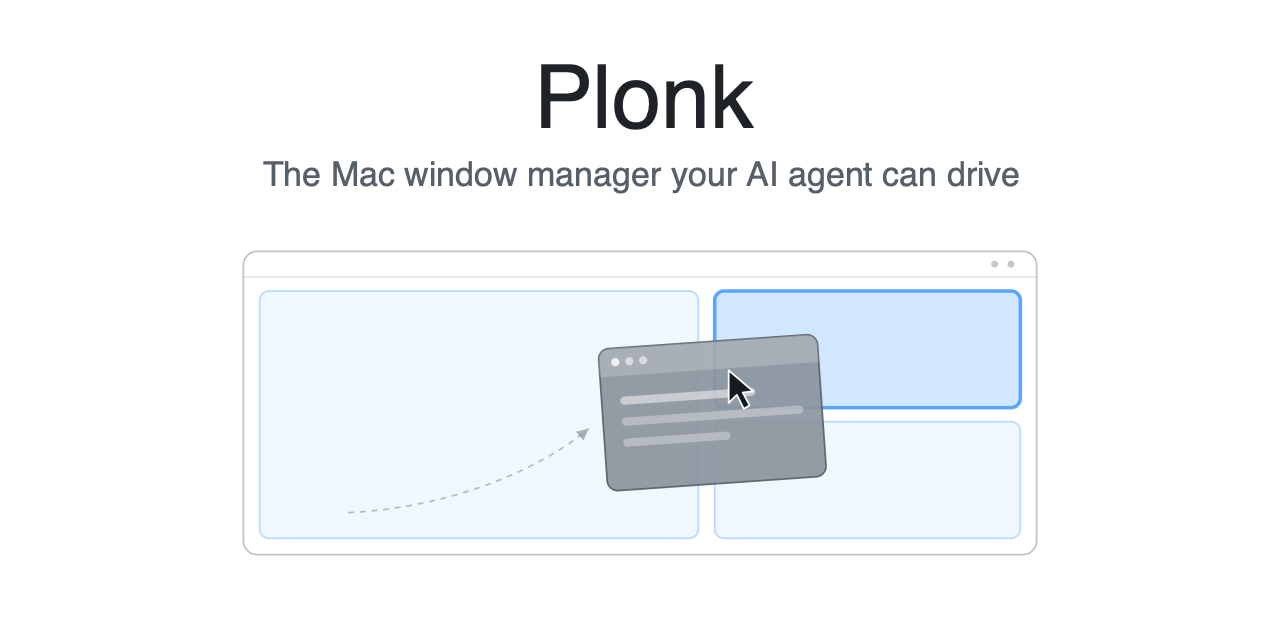
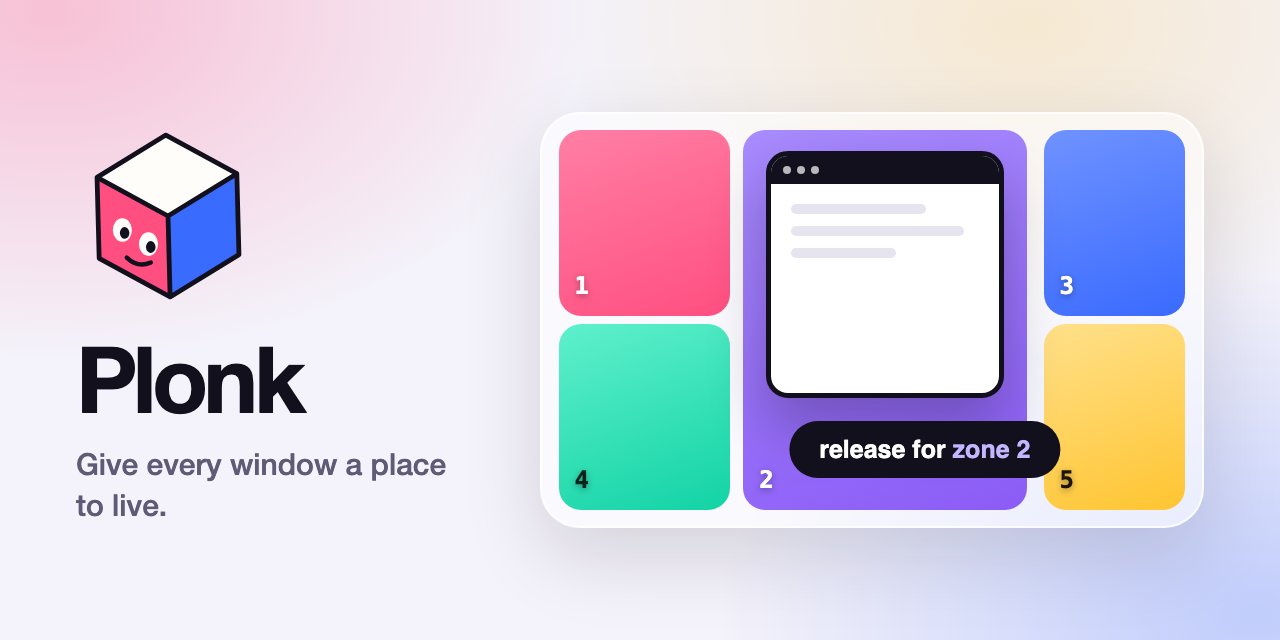
docs: point the site at the mockups, and redraw the social card
Not my work: this is the design pass that came with the brief, committed
as it stood in the tree.

The site showed two screenshots that predated this design; they are gone
and docs/index.html shows the Zones window and the menu bar panel from
docs/design/shots/ instead, so nothing on the page contradicts the
palette any more. social-preview.png is redrawn from design/social.html,
one Chrome frame with the flags that make it reproducible.

What this does not do is show the real app. The mockups are standing in
for captures that have to come off the built binary now that the screens
exist, and both design/README.md and HANDOFF.md say so in as many words.

diff --git a/docs/design/social.html b/docs/design/social.html
@@ -1,0 +1,106 @@
+<!doctype html>
+<meta charset="utf-8">
+<style>
+/* ============================================================
+   docs/social-preview.png — the card GitHub, Slack and every
+   chat window draw when someone pastes a link.
+   640x320 at 2x is 1280x640, which is what GitHub asks for and
+   what the file it replaces already was. Nothing here animates:
+   this is the banner's rest pose, so the two assets read as the
+   same drawing rather than two attempts at one.
+   ============================================================ */
+*{box-sizing:border-box;margin:0;padding:0}
+html,body{width:640px;height:320px;overflow:hidden}
+body{
+  background:
+    radial-gradient(70% 90% at 4% 2%,rgba(255,79,129,.30),transparent 60%),
+    radial-gradient(70% 90% at 98% 96%,rgba(58,107,255,.28),transparent 60%),
+    radial-gradient(60% 80% at 80% 4%,rgba(255,197,49,.20),transparent 60%),
+    #f4f2fa;
+  font-family:-apple-system,"SF Pro Display","Helvetica Neue",Helvetica,Arial,sans-serif;
+  position:relative
+}
+
+/* ---------- left: the cube and the wordmark ---------- */
+.left{position:absolute;left:38px;top:56px;width:210px}
+.cube{width:92px;height:104px;display:block;transform:rotate(-1.5deg)}
+.word{font-size:46px;font-weight:900;letter-spacing:-.05em;color:#12101c;margin-top:6px;line-height:1}
+.tag{font-size:15px;line-height:1.35;color:#5f5a75;margin-top:10px;font-weight:500;max-width:200px}
+
+/* ---------- right: the screen ---------- */
+/* One zone short of the six-hue ceiling, and the same five the site
+   calls Priority — a reader who has seen one has seen the other. */
+.screen{
+  position:absolute;left:270px;top:56px;width:332px;height:208px;
+  border-radius:20px;background:rgba(255,255,255,.55);
+  border:1px solid rgba(255,255,255,.8);
+  box-shadow:0 14px 40px rgba(18,16,28,.14);
+  padding:9px
+}
+.z{
+  position:absolute;border-radius:11px;display:flex;align-items:flex-end;padding:8px;
+  font:600 12px ui-monospace,"SF Mono",Menlo,monospace;color:#fff;
+  text-shadow:0 1px 3px rgba(18,16,28,.35)
+}
+.z1{background:linear-gradient(160deg,#ff7fa4,#ff4f81);left:2.5%;top:4%;width:26%;height:45%}
+.z2{background:linear-gradient(160deg,#a98cff,#8b5cf6);left:30.5%;top:4%;width:43%;height:92%}
+.z3{background:linear-gradient(160deg,#6f92ff,#3a6bff);left:76%;top:4%;width:21.5%;height:45%}
+.z4{background:linear-gradient(160deg,#5ff0cd,#12d3a4);left:2.5%;top:51%;width:26%;height:45%;color:#04241b}
+.z5{background:linear-gradient(160deg,#ffe08a,#ffc531);left:76%;top:51%;width:21.5%;height:45%;color:#1c1400}
+
+/* The window lands slightly inside zone 2 rather than over it, so the
+   gradient stays visible as a frame — which is what the gap setting
+   really does. Same outline as the cube: the two hard-edged things.
+   The toast is pushed off centre for one reason: centred, it sat on
+   zone 2's own digit, and the whole point is that the number and the
+   colour agree. */
+.win{
+  position:absolute;left:34%;top:9%;width:36%;height:60%;
+  border-radius:11px;background:#fff;border:2.5px solid #12101c;
+  box-shadow:0 14px 28px rgba(18,16,28,.28);overflow:hidden
+}
+.win .bar{height:14px;background:#12101c;display:flex;gap:3px;align-items:center;padding:0 6px}
+.win .bar i{width:4px;height:4px;border-radius:50%;background:rgba(255,255,255,.7);display:block}
+.win .body{padding:10px;display:flex;flex-direction:column;gap:6px}
+.win .body u{display:block;height:5px;border-radius:3px;background:#e6e4ef;text-decoration:none}
+.win .body u:nth-child(1){width:72%}
+.win .body u:nth-child(2){width:92%}
+.win .body u:nth-child(3){width:56%}
+
+.toast{
+  position:absolute;left:58%;bottom:24px;transform:translateX(-50%);
+  background:#12101c;color:#fff;border-radius:999px;padding:7px 15px;
+  font:600 12.5px -apple-system,"SF Pro Text",Helvetica,Arial,sans-serif;white-space:nowrap
+}
+.toast b{color:#c4b5ff}
+</style>
+
+<div class="left">
+  <svg class="cube" viewBox="0 0 100 112">
+    <polygon fill="#fffdf9" points="12,34 50,12 88,34 50,56"/>
+    <polygon fill="#ff4f81" points="12,34 50,56 50,100 12,78"/>
+    <polygon fill="#3a6bff" points="88,34 50,56 50,100 88,78"/>
+    <ellipse cx="25" cy="63" rx="5.2" ry="6.4" fill="#fffdf9"/>
+    <ellipse cx="26.2" cy="64.6" rx="2.6" ry="3.2" fill="#12101c"/>
+    <ellipse cx="39" cy="71" rx="5.2" ry="6.4" fill="#fffdf9"/>
+    <ellipse cx="40.2" cy="72.6" rx="2.6" ry="3.2" fill="#12101c"/>
+    <path d="M27,78 Q33,84 40,81" stroke="#12101c" stroke-width="2.4" fill="none" stroke-linecap="round"/>
+    <path fill="none" stroke="#12101c" stroke-width="2.6" stroke-linejoin="round"
+          d="M12,34 L50,12 L88,34 L88,78 L50,100 L12,78 Z M12,34 L50,56 L88,34 M50,56 L50,100"/>
+  </svg>
+  <div class="word">Plonk</div>
+  <div class="tag">Give every window a place to live.</div>
+</div>
+
+<div class="screen">
+  <div class="z z1">1</div>
+  <div class="z z2">2</div>
+  <div class="z z3">3</div>
+  <div class="z z4">4</div>
+  <div class="z z5">5</div>
+  <div class="win">
+    <div class="bar"><i></i><i></i><i></i></div>
+    <div class="body"><u></u><u></u><u></u></div>
+  </div>
+  <div class="toast">release for <b>zone 2</b></div>
+</div>

diff --git a/docs/index.html b/docs/index.html
@@ -253,6 +253,11 @@ h1,h2,h3{text-wrap:balance}
 figure.shot{margin:24px 0 0}
 figure.shot img{border-radius:18px;border:1px solid var(--line);display:block;width:100%}
 figure.shot figcaption{margin-top:11px;font-size:13.5px;color:var(--dimmer);line-height:1.45}
+/* A window and a desktop are not the same shape, so side by side their
+   captions start at different heights. Pushing them to the bottom of the
+   cell lines them up without cropping either picture. */
+.split figure.shot{display:flex;flex-direction:column;height:100%}
+.split figure.shot figcaption{margin-top:auto;padding-top:11px}
 .split{display:grid;gap:16px}
 /* Grid and flex children default to min-width:auto, so a <pre> refuses to
    shrink below its longest line and pushes the page sideways, overflow-x
@@ -549,14 +554,14 @@ pre .c{color:#9c96b8}
     <p class="lead">Anything the app can do has a name you can type. The theme is yours to pick, and the zone overlay and the heads-up display follow it.</p>
     <div class="split">
       <figure class="shot" style="margin-top:0">
-        <img src="app-home-light.png" width="1400" height="980" loading="lazy"
-             alt="Plonk's Home page in the light theme: a sidebar with Home, Layout, Capture, Automation and Settings, a card showing the zone layout of the main screen, and rows of quick actions with their shortcuts">
-        <figcaption>Home, light theme. The picture is your screen's real zone set.</figcaption>
+        <img src="design/shots/s-zones.jpg" width="1600" height="1105" loading="lazy"
+             alt="Plonk's Zones page: a sidebar grouped into Layout, Tools and Automation, a row of zone-set tabs, the Priority set drawn full width in five colours with each zone's fraction printed in it, and grouped settings for dragging, gaps and overlay numbers">
+        <figcaption>Zones. The set you are editing is the page, not a separate window &mdash; and the colour is the number.</figcaption>
       </figure>
       <figure class="shot" style="margin-top:0">
-        <img src="app-zones-dark.png" width="1400" height="980" loading="lazy"
-             alt="Plonk's Zones page in the dark theme: a row of zone-set tabs, a large preview of the selected set, and cards for dragging behaviour and shortcuts">
-        <figcaption>Zones, dark theme. The set you are editing is the page, not a separate window.</figcaption>
+        <img src="design/shots/s-menu.jpg" width="1600" height="1000" loading="lazy"
+             alt="The Plonk menu bar panel open over a desktop: the current zone set drawn in its five colours, two saved desks with their shortcuts, the capture and ruler tools, and a keep-awake timer">
+        <figcaption>The menu bar. The same set, the same desks, without opening the window.</figcaption>
       </figure>
     </div>
     <div class="grid2">

diff --git a/docs/design/shoot.js b/docs/design/shoot.js
@@ -15,11 +15,13 @@ const outDir = path.join(__dirname, 'frames');
   fs.rmSync(outDir, { recursive: true, force: true });
   fs.mkdirSync(outDir, { recursive: true });
 
-  // The installed playwright pins a newer build than the image ships, so
-  // point it at the Chromium that is actually here.
-  const browser = await chromium.launch({
-    executablePath: '/opt/pw-browsers/chromium-1194/chrome-linux/chrome',
-  });
+  // The image this was drafted on ships a Chromium that the installed
+  // playwright does not pin, so it has to be pointed at the one that is
+  // actually there. That path does not exist on a Mac, where playwright
+  // downloads its own — hence the fallback rather than a hard path.
+  const pinned = '/opt/pw-browsers/chromium-1194/chrome-linux/chrome';
+  const browser = await chromium.launch(
+    fs.existsSync(pinned) ? { executablePath: pinned } : {});
   const ctx = await browser.newContext({
     viewport: { width: W, height: H },
     deviceScaleFactor: SCALE,

diff --git a/docs/design/shots.js b/docs/design/shots.js
@@ -6,7 +6,11 @@ const IDS = ['s-zones', 's-desks', 's-drag', 's-menu'];
 (async () => {
   fs.rmSync(out, { recursive: true, force: true });
   fs.mkdirSync(out, { recursive: true });
-  const browser = await chromium.launch({ executablePath: '/opt/pw-browsers/chromium-1194/chrome-linux/chrome' });
+  // Same fallback as shoot.js: a pinned Chromium on the image that drafted
+  // this, playwright's own download anywhere else.
+  const pinned = '/opt/pw-browsers/chromium-1194/chrome-linux/chrome';
+  const browser = await chromium.launch(
+    fs.existsSync(pinned) ? { executablePath: pinned } : {});
   const ctx = await browser.newContext({ viewport: { width: 1700, height: 1100 }, deviceScaleFactor: 2 });
   const page = await ctx.newPage();
   await page.goto('file://' + path.join(__dirname, 'mac.html'));

diff --git a/docs/design/README.md b/docs/design/README.md
@@ -36,13 +36,22 @@ behind it, and it overlaps the edge of the glass rather than sitting inside it.
 
 ## Regenerating the assets
 
-Both scripts drive the real stylesheets through Chromium, so the pictures cannot
-drift away from the design — change a colour and re-run.
+Every one of these drives the real stylesheets through Chromium, so the pictures
+cannot drift away from the design — change a colour and re-run.
 
 ```sh
 npm i playwright && python3 -m pip install pillow   # once
 node docs/design/shoot.js && python3 docs/design/assemble.py   # docs/banner.gif
 node docs/design/shots.js                                       # app screenshots
+
+# docs/social-preview.png, 640x320 at 2x. Chrome directly, because one still
+# frame is not worth a playwright install, and the flags are part of the
+# recipe: two runs with these are byte-identical, and dropping --disable-gpu
+# rasterises differently and produces a different file.
+"/Applications/Google Chrome.app/Contents/MacOS/Google Chrome" \
+  --headless --disable-gpu --hide-scrollbars \
+  --force-device-scale-factor=2 --window-size=640,320 \
+  --screenshot=docs/social-preview.png docs/design/social.html
 ```
 
 `scene.html` is the banner animation. It carries no `animation-delay`: a
@@ -65,6 +74,11 @@ Two things that cost an afternoon each, both now encoded in the scripts:
   size. Both are now switched off in `assemble.py` itself, which is the
   point: the script has to reproduce the committed file, or the claim that
   the assets cannot drift is not true.
+
+`social.html` is that same drawing at rest: the card GitHub, Slack and every
+other chat window draw when someone pastes the link. One frame needs no
+pipeline, so Chrome writes the PNG straight out. Keep it 1280x640 — what GitHub
+asks for, and what the file it replaced already was.
 
 `mac.html` holds four full-size macOS scenes at real system metrics — 13px body
 text, a 38px unified toolbar, a 220px sidebar, 12px traffic lights — and
@@ -97,9 +111,15 @@ git clone --branch claude/plonk-design-system-3uuj2h --single-branch \
 
 ## Not done yet
 
-- **The app's own screenshots** in `docs/` still show the old single-accent
-  overlay. They need re-shooting on a Mac once this ships.
-- **`social-preview.png`** has not been redrawn.
+- **The site shows the mockups, not the app.** `docs/index.html` now displays
+  `shots/s-zones.jpg` and `shots/s-menu.jpg`; the real screenshots it used
+  before predated this design and are deleted rather than left to contradict
+  it. Re-shoot from the built app once the screens match, and point the site
+  back at real captures — a mockup is the target, not the product.
+- **`shots.js` does not reproduce what is committed.** It writes PNGs at 2x;
+  `shots/` holds JPEGs downscaled to 1600px wide, and the step between them is
+  somebody's hands. Either put the resize in the script or commit what it
+  actually writes.
 - **A setting for the palette.** Right now the numbered colours are the default
   and an explicit zone colour opts out. If that turns out to be the wrong
   default, the honest fix is a real toggle on the Zones page rather than

diff --git a/docs/design/HANDOFF.md b/docs/design/HANDOFF.md
@@ -77,11 +77,14 @@ tools read it, and they should stay one colour.
 4. **Measure the overlay on an Intel Mac** if one is reachable. A gradient
    behind every zone is drawn on every frame of a drag. If it costs frames,
    drop to flat fills in the same six hues; the idea survives intact.
-5. **Re-shoot the app screenshots.** `docs/app-home-light.png`,
-   `docs/app-zones-dark.png` and `docs/demo.gif` still show the old
-   single-accent overlay, and `docs/index.html` displays all three. They are
-   the last thing on the site that contradicts the design.
-6. **Redraw `docs/social-preview.png`** to match the new banner.
+5. **Re-shoot the app screenshots.** Half done. The stale ones —
+   `docs/app-home-light.png`, `docs/app-zones-dark.png`, `docs/demo.gif` and
+   the unlinked `.mp4`s — are deleted, and `docs/index.html` shows the
+   mockups from `docs/design/shots/` in their place, so nothing on the site
+   contradicts the design any more. What is still owed is captures from the
+   built app, which the mockups are only standing in for.
+6. ~~**Redraw `docs/social-preview.png`**~~ — done, from
+   `docs/design/social.html`.
 7. **Decide about the default.** Numbered colours are the default now, and
    setting an explicit colour opts out. If that is the wrong way round, the
    honest fix is a real toggle on the Zones page rather than overloading what

diff --git a/docs/design/TASK-app-ui.md b/docs/design/TASK-app-ui.md
@@ -97,11 +97,14 @@ node scripts/check-zone-sets.mjs
 
 all pass, and each screen matches its shot in `docs/design/shots/`.
 
-Then re-shoot `docs/app-home-light.png`, `docs/app-zones-dark.png` and
-`docs/demo.gif` from the real app — `docs/index.html` displays all three, and
-they currently show the old single-accent overlay, which is the last thing on
-the site contradicting the design. `docs/social-preview.png` needs redrawing
-too.
+The site no longer contradicts the design: `docs/index.html` shows
+`design/shots/s-zones.jpg` and `design/shots/s-menu.jpg`, and the screenshots
+that predated it — `app-home-light.png`, `app-zones-dark.png`, `demo.gif` and
+the three `.mp4`s nothing linked to — are deleted. `social-preview.png` is
+redrawn from `design/social.html`.
+
+So the one thing left is the real thing: shoot these screens from the built
+app and put those captures on the site in place of the mockups.
 
 Finally, work through the rest of [HANDOFF.md](HANDOFF.md) and delete it. Its
 links are private and this repository is public.
